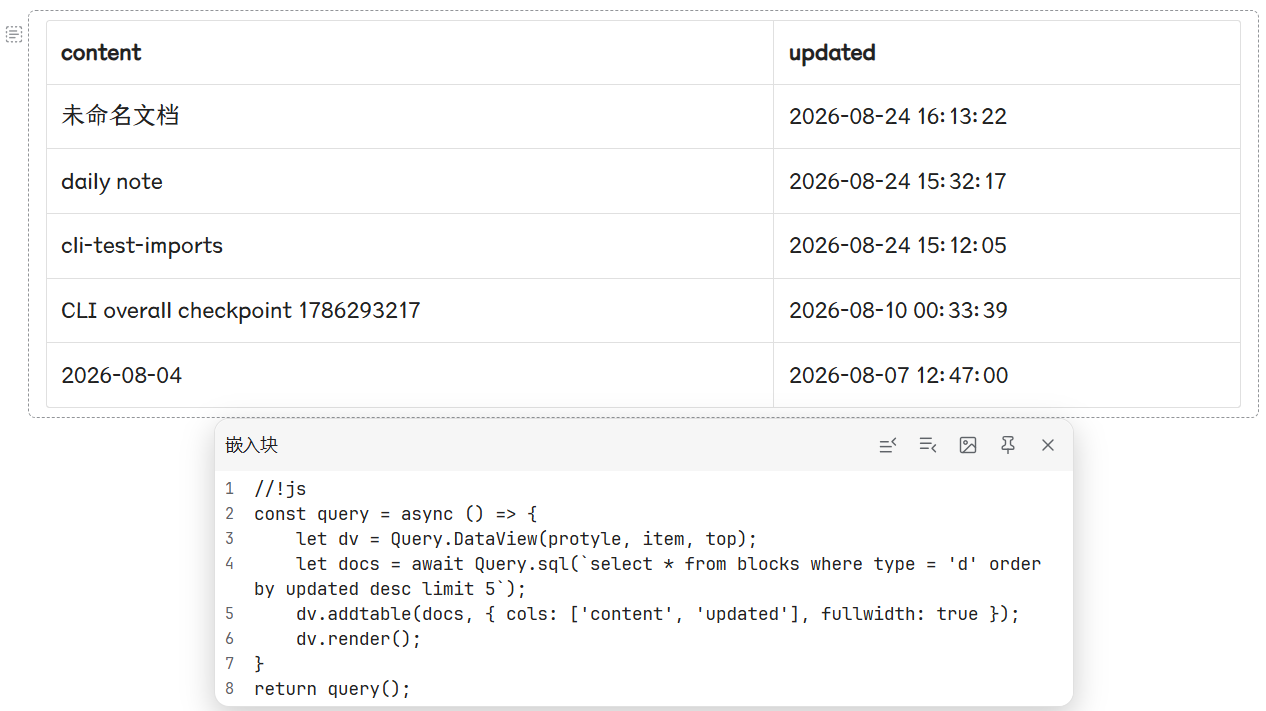
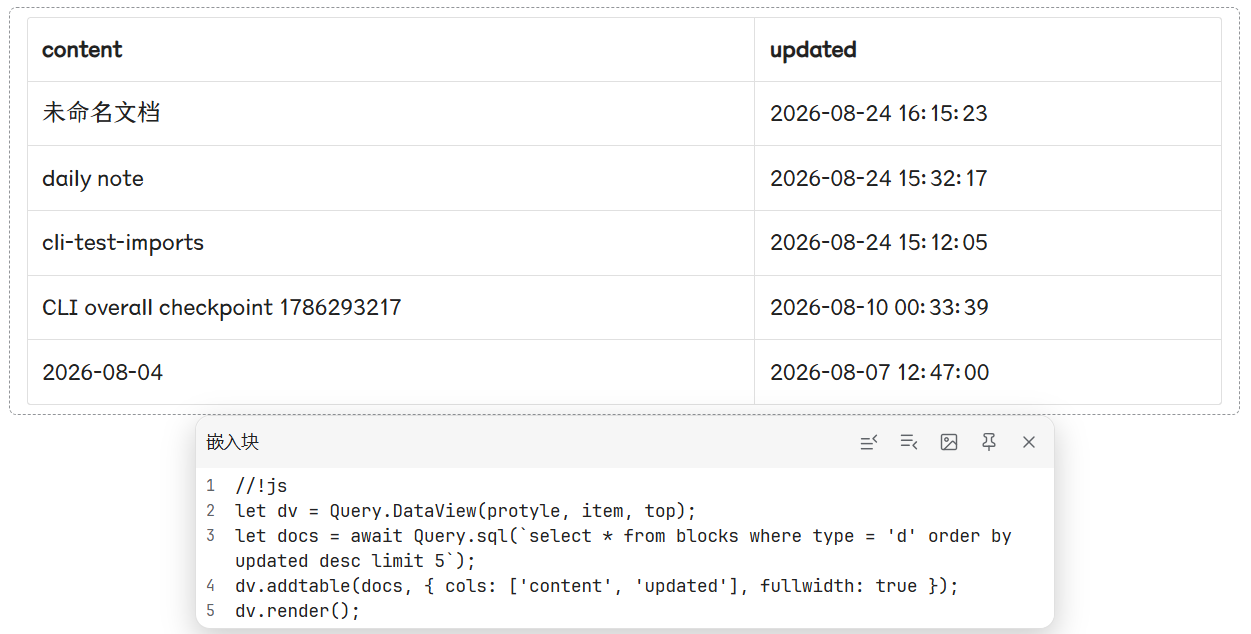
📝 docs: add Technical Details section to README, mirror zh/en
- new section: what 'return' returns (BlockID[] vs DataView), old vs new
  coding style (pre-3.8.0 async wrapper vs top-level await)
- drop the inline old/new-style note right after the minimal example
- refresh the minimal example screenshot
- zh written by user, en mirrored 1:1 (paragraph-aligned)

diff --git a/README.md b/README.md
@@ -15,8 +15,6 @@ dv.render();
 ![image](docs/assets/image-query-view-minimal-example.png "Rendered effect")
 
 > 💡 The code above is only a minimal demo; the complete basic template and the step-by-step guide live in "Start from the Template", and more copyable effects are in the "Example Overview".
->
-> 💡 This example uses top-level await, which requires SiYuan 3.8.0 or newer. On older versions, the await-related code must be wrapped in an async function invoked at the end, e.g. `const query = async () => { … }; return query();`.
 
 > ⚠ This document assumes that you have a basic understanding of JavaScript syntax concepts (at minimum, basic variables, control flow, function calls, and async/await).
 
@@ -87,6 +85,43 @@ The full documentation is organized into Quickstart, Topics, Examples, API Refer
 **Agent Skill**
 
 - [Agent Skill](docs/en_US/skill/index.md) — a `SKILL.md` that guides AI agents to query and render with this plugin, shipped with the plugin version.
+
+## Technical Details
+
+### What `return` Returns
+
+If you are not using `DataView` to build visual components, `return` should return a list of block IDs (`BlockID[]`). In that case, the embedded block acts essentially as a "premium SQL" replacement and does not affect SiYuan's native embedded block rendering logic.
+
+If you are using `DataView`, do not return a meaningful object.
+
+### The Old and New Styles
+
+If you are an existing user of Query View, you may remember the old generic style, which looked like:
+
+```js
+//!js
+const query = async () => {
+  let dv = Query.Dataview(protyle, item, top);
+  let blocks = await Query.backlink(protyle.block.rootID);
+  blocks = await Query.fb2p(blocks);
+  dv.addList(blocks, { type: 'o', columns: 2 });
+  dv.render();
+}
+return query();
+```
+
+The `const query = async () => ...` wrapper was a must — in older versions of SiYuan, JS embedded query blocks did not allow top-level `await` statements, so the code had to be wrapped in an async function.
+
+After the 3.8.0 update, this restriction is history (though the old style still works). The new version recommends the more concise style:
+
+```js
+//!js
+let dv = Query.Dataview(protyle, item, top);
+let blocks = await Query.backlink(protyle.block.rootID);
+blocks = await Query.fb2p(blocks);
+dv.addList(blocks, { type: 'o', columns: 2 });
+dv.render();
+```
 
 ## Thanks
 

diff --git a/README_zh_CN.md b/README_zh_CN.md
@@ -15,8 +15,6 @@ dv.render();
 ![image](docs/assets/image-query-view-minimal-example.png "渲染效果")
 
 > 💡 上面的代码只是一个最小演示；完整的基础模板与逐步说明见「从模板开始」，更多可复制的效果见「案例总览」。
->
-> 💡 示例默认使用顶层 await，这需要思源 3.8.0 及以上版本；在更早的版本中，需要把 await 相关的代码包进一个 async 函数，并以 `return query();` 结尾调用（例如 `const query = async () => { … }; return query();`）。
 
 ⚠ 注意，本文档默认读者了解基础的 Javascript 语法概念（至少需要理解基础的变量、流程控制、函数调用、async/await）。
 
@@ -87,6 +85,44 @@ dv.render();
 **智能体技能**
 
 - [智能体技能](docs/zh_CN/skill/index.md) —— 指导 AI 代理（Agent）使用本插件进行查询与渲染的 `SKILL.md`，随插件版本一起发布。
+
+## 技术细节说明
+
+### `return` 返回什么
+
+如果你不使用 `DataView` 构建可视化组件，那么 `return` 应当返回一个 Block ID 列表（`BlockID[]`）。此时，嵌入块本质上作为“高级版 SQL”的替代品，不会影响思源原生的嵌入块渲染逻辑。
+
+如果你使用 `DataView`，则不要返回实质性对象。
+
+
+### 新旧两版写法
+
+如果您是 QueryView 的老用户，您可能记得旧版的通用写法形如:
+
+```js
+//!js
+const query = async () => {
+  let dv = Query.Dataview(protyle, item, top);
+  let blocks = await Query.backlink(protyle.block.rootID);
+  blocks = await Query.fb2p(blocks);
+  dv.addList(blocks, { type: 'o', columns: 2 });
+  dv.render();
+}
+return query();
+```
+
+其中 `const query = async () => ...` 必不可少——因为在旧版 SiYuan 中，JS 嵌入查询块内不允许在顶层使用 await 语句，必须将其封装在一个异步函数中。
+
+3.8.0 版本更新后，这一限制已成为历史（但旧写法仍然可用）。新版本推荐使用更简洁的写法：
+
+```js
+//!js
+let dv = Query.Dataview(protyle, item, top);
+let blocks = await Query.backlink(protyle.block.rootID);
+blocks = await Query.fb2p(blocks);
+dv.addList(blocks, { type: 'o', columns: 2 });
+dv.render();
+```
 
 ## 感谢
 
